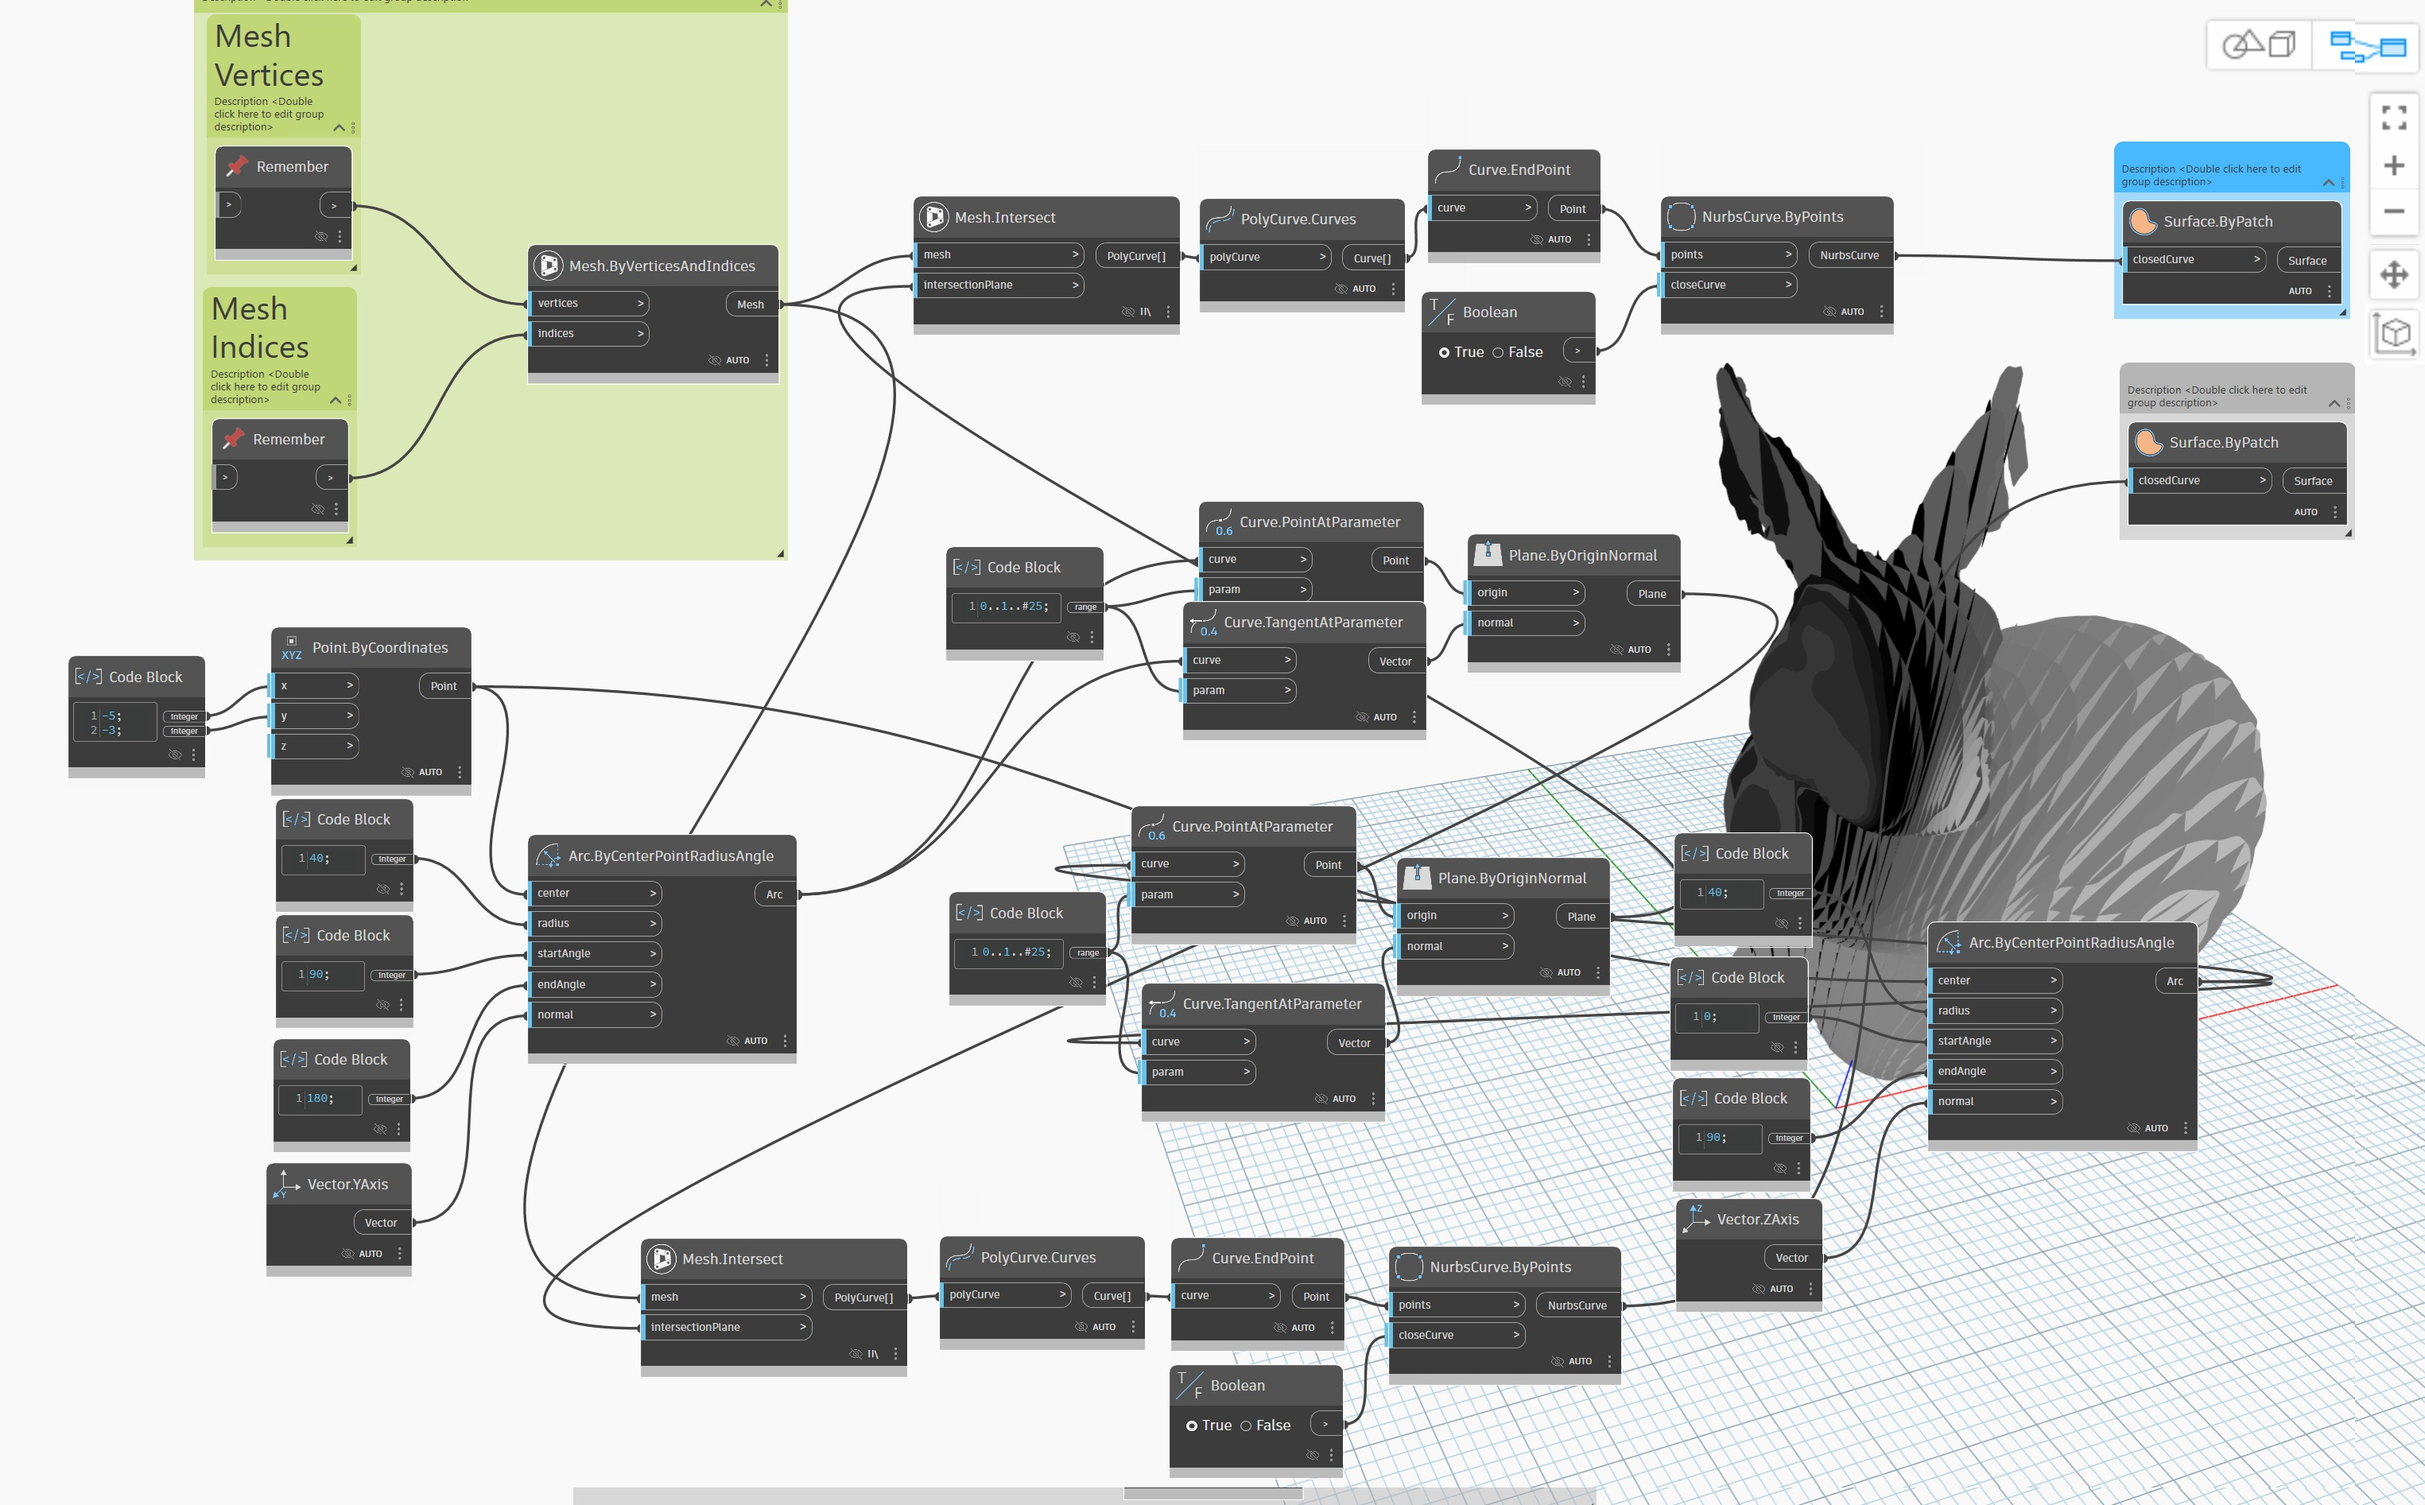
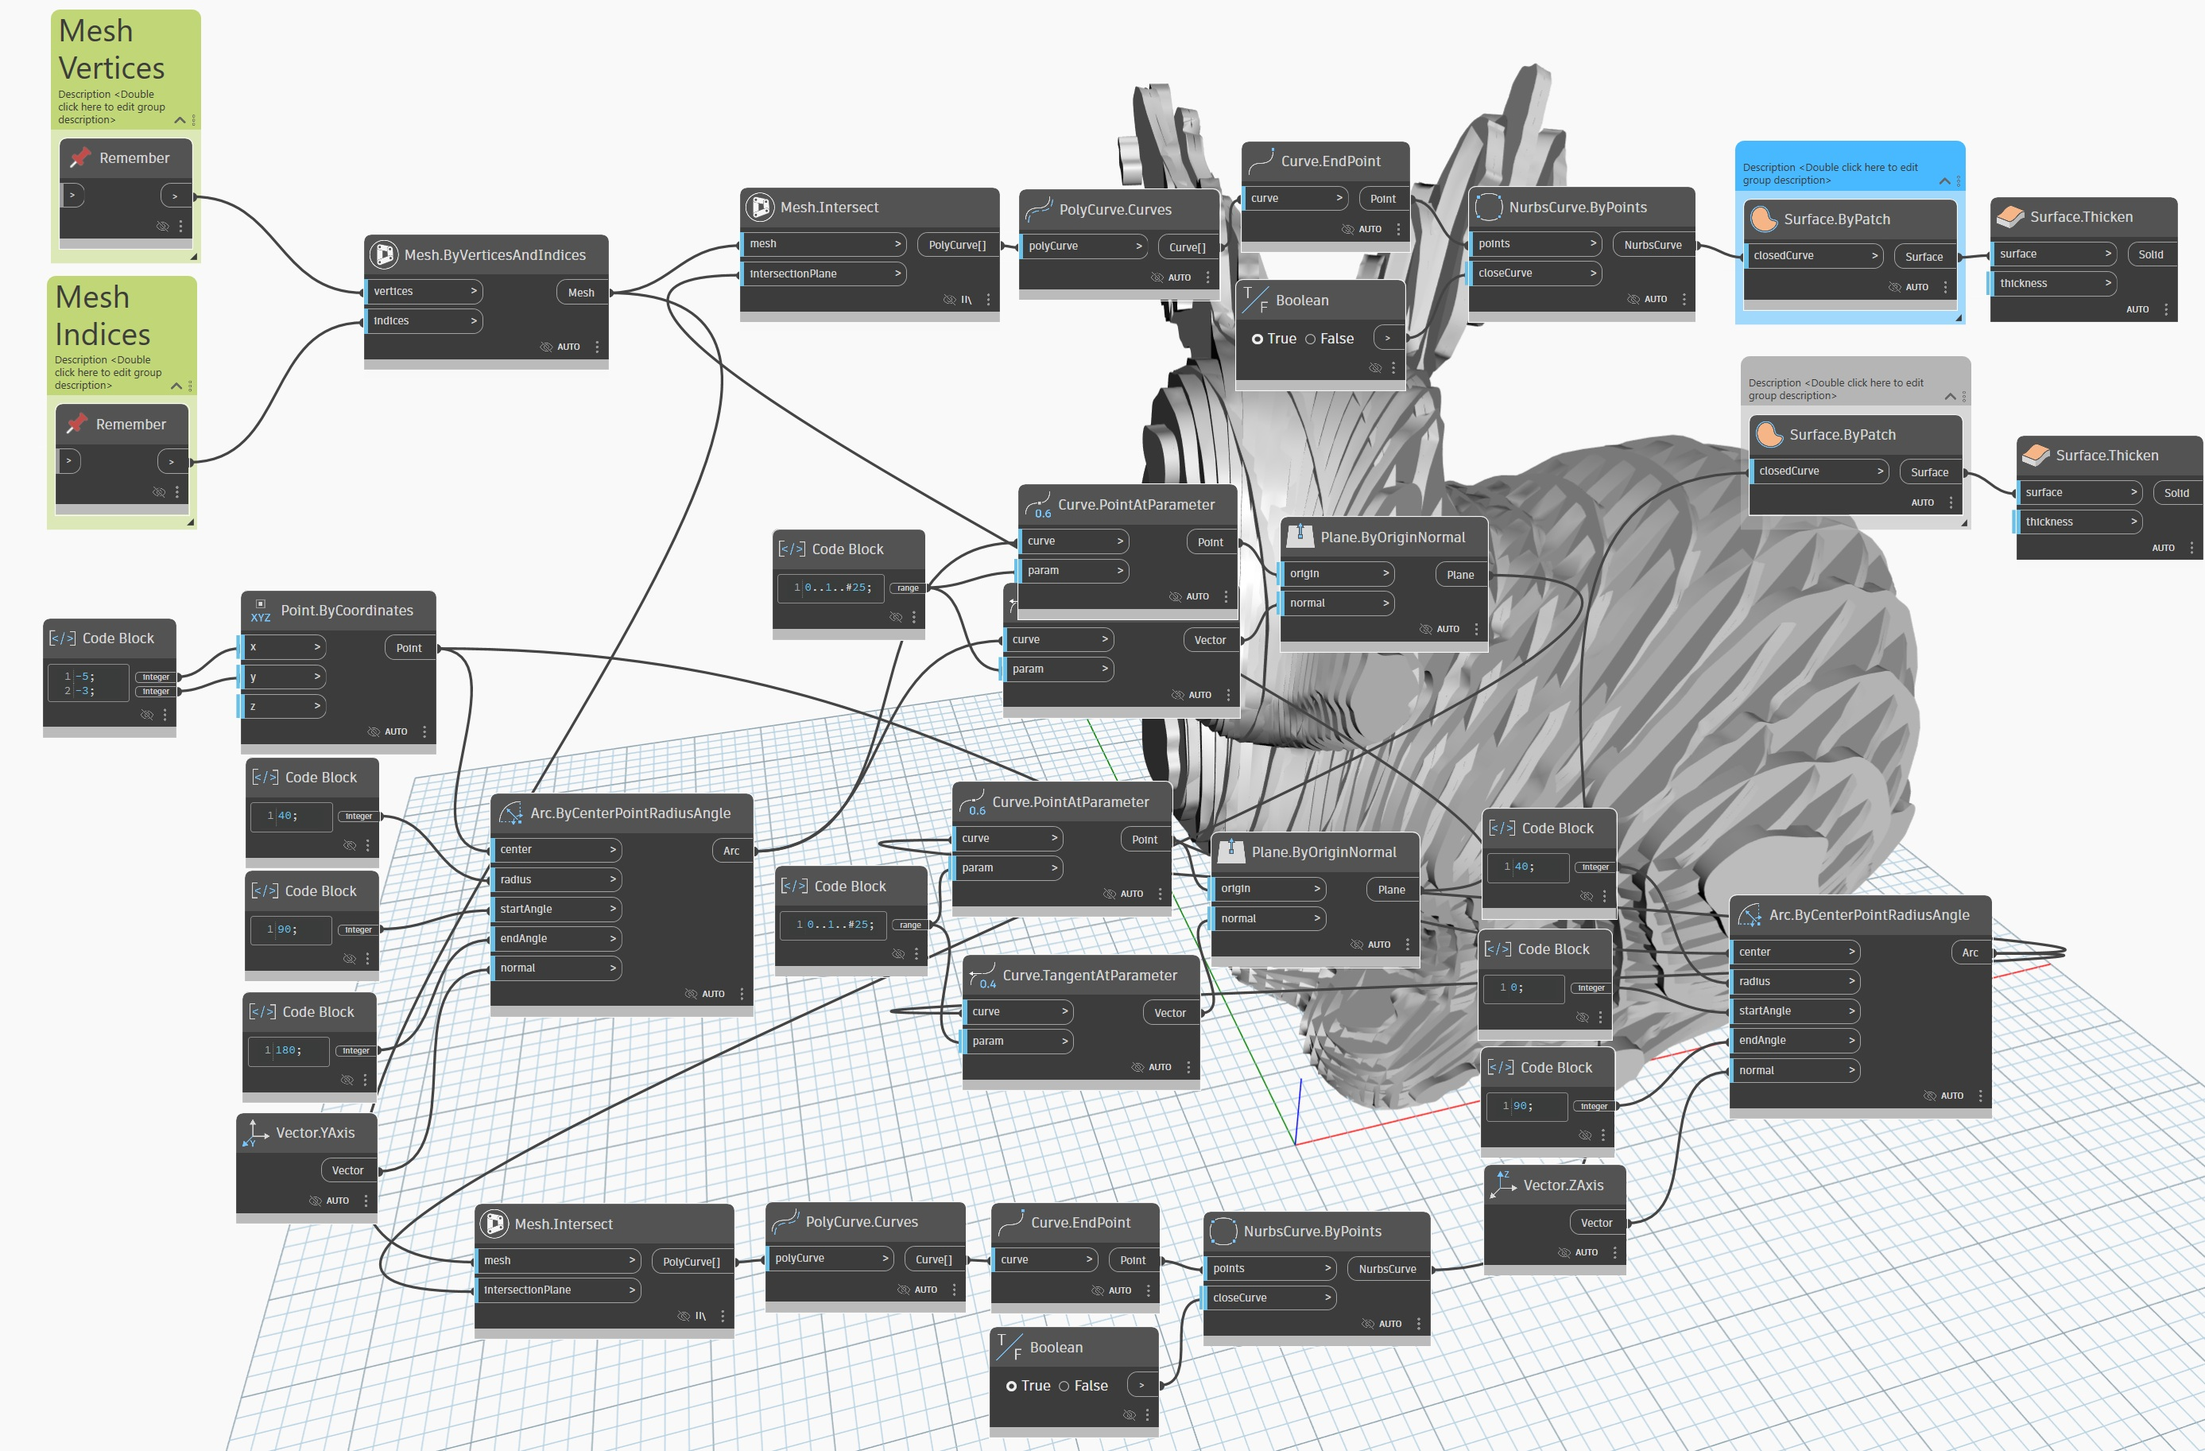
images commited

diff --git a/SUMMARY.md b/SUMMARY.md
@@ -149,11 +149,9 @@
     * [Obstacles encountered with PythonNet3 and workarounds](11_developer_primer/9_migrating_versions/4-obstacles-and-workaround.md)    
 * [AI Tools](12_ai_tools/12-1_autodesk-assistant/1-what-is-autodesk-assistant.md)
   * [Autodesk Assistant](12_ai_tools/12-1_autodesk-assistant/1-what-is-autodesk-assistant.md)
-    * [What is Autodesk Assistant](12_ai_tools/12-1_autodesk-assistant/1-what-is-autodesk-assistant.md)
     * [What can Autodesk Assistant do](12_ai_tools/12-1_autodesk-assistant/2-what-can-autodesk-assistant-do.md)
     * [What is Autodesk Assistant Unable to do](12_ai_tools/12-1_autodesk-assistant/3-what-is-autodesk-assistant-unable-to-do.md)
   * [Dynamo MCP](12_ai_tools/12-2_dynamo-mcp/1-what-is-dynamo-mcp.md)
-    * [What is Dynamo MCP](12_ai_tools/12-2_dynamo-mcp/1-what-is-dynamo-mcp.md)
 * [Appendix](a_appendix/README.md)
   * [Frequently Asked Questions](a_appendix/a-7_frequently-asked-questions.md)
   * [Visual Programming and Dynamo](a_appendix/a-1_visual-programming-and-dynamo.md)
